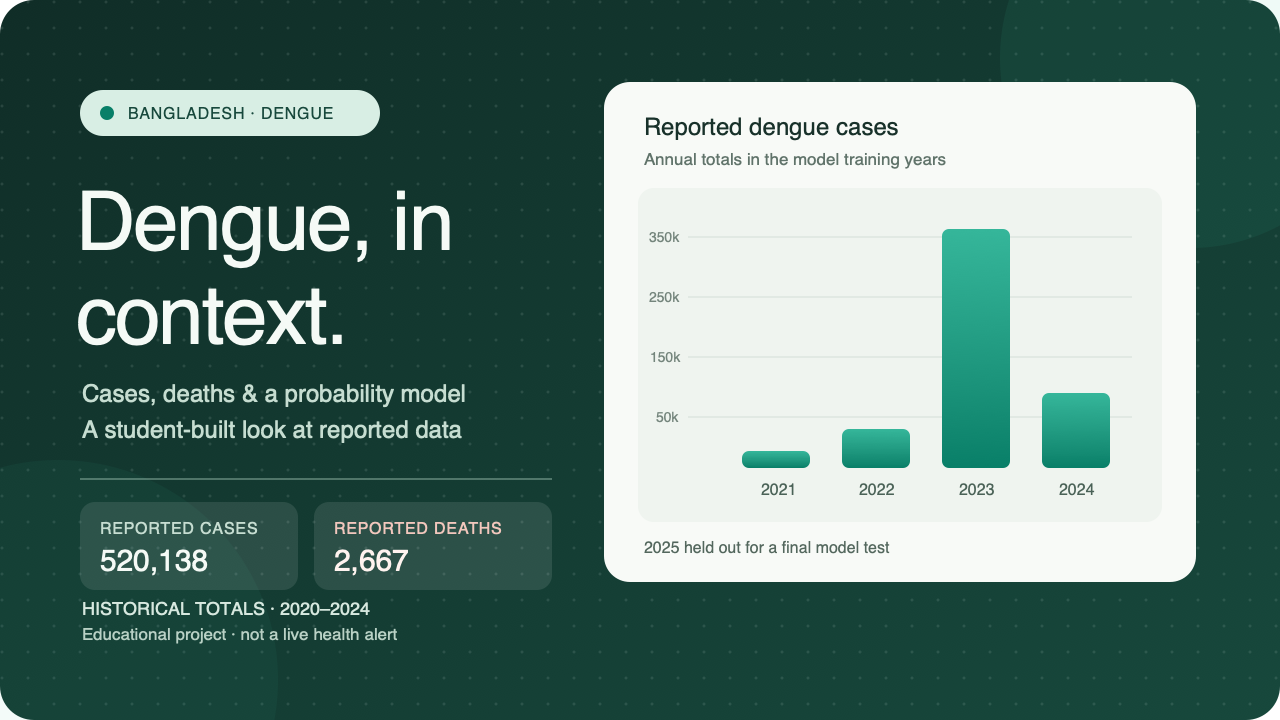
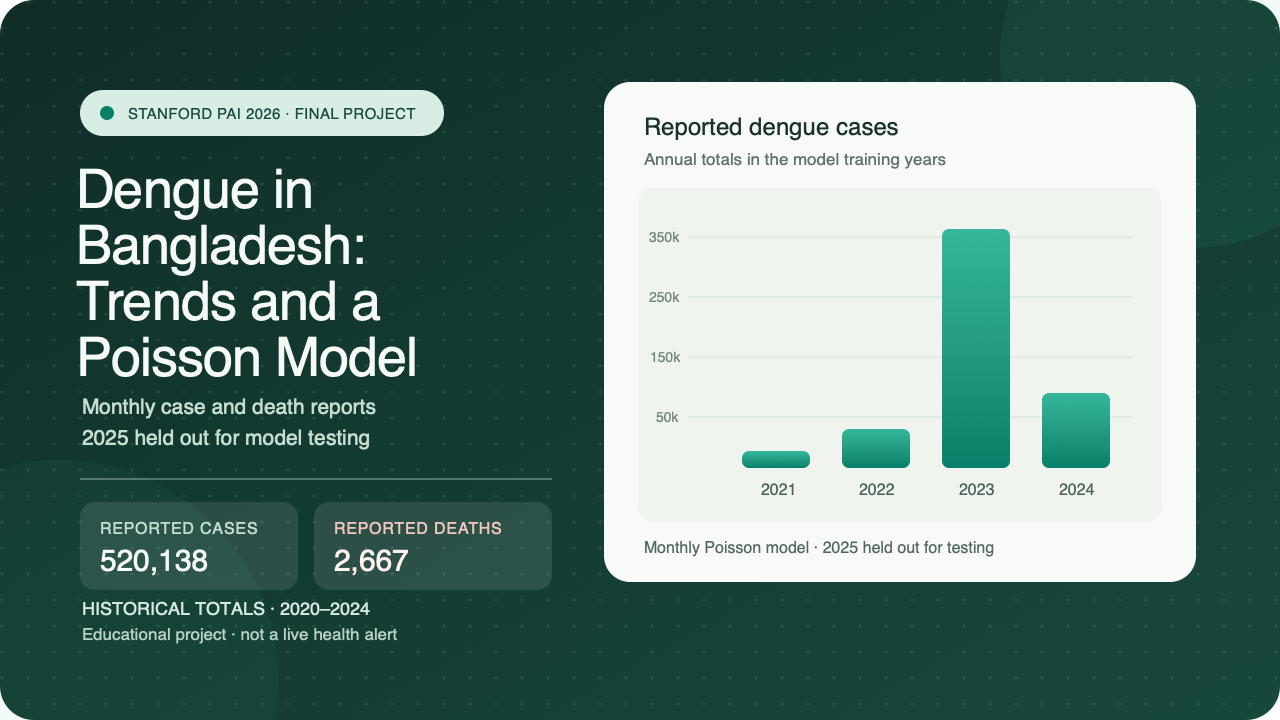
Update project branding and titles to reflect new submission: "Dengue in Bangladesh: Trends and a Poisson Model"

Changed region(s): [[0.0625, 0.2139, 0.375, 0.6417], [0.5, 0.7333, 0.7812, 0.7944], [0.0938, 0.1222, 0.3438, 0.2139]]

diff --git a/app/App.tsx b/app/App.tsx
@@ -113,7 +113,7 @@ export default function App() {
     <div style={{minHeight: '100vh', background: '#f4f6f1', color: '#18312a', fontFamily: 'system-ui, sans-serif', fontSize: 18}}>
       <header style={{background: '#102d27', color: '#f7fbf8', padding: '14px 22px'}}>
         <div style={{maxWidth: 1120, margin: '0 auto', display: 'flex', alignItems: 'center', justifyContent: 'space-between', gap: 18, flexWrap: 'wrap'}}>
-          <a href="#top" style={{color: 'inherit', fontWeight: 750, textDecoration: 'none'}}>Dengue, in context</a>
+          <a href="#top" style={{color: 'inherit', fontWeight: 750, textDecoration: 'none'}}>Dengue in Bangladesh</a>
           <nav aria-label="Main navigation" style={{display: 'flex', alignItems: 'center', gap: 20, flexWrap: 'wrap'}}>
             <a href="#trends" style={{color: 'inherit'}}>Historical trends</a>
             <a href="#model" style={{color: 'inherit'}}>How the model works</a>
@@ -133,12 +133,12 @@ export default function App() {
       <main id="top" style={{maxWidth: 1120, margin: '0 auto', padding: '28px 20px 56px'}}>
         <section aria-labelledby="page-title" style={{padding: '28px 4px 10px'}}>
           <p style={{fontWeight: 750, letterSpacing: 1.2, color: '#087f68', marginBottom: 10}}>BANGLADESH · PUBLIC HEALTH DATA EXPLORER</p>
-          <h1 id="page-title" style={{fontSize: 'clamp(34px, 6vw, 56px)', lineHeight: 1.08, maxWidth: 850, margin: '0 0 18px'}}>
-            What can dengue reports tell us—and what can’t they?
+          <h1 id="page-title" style={{fontSize: 'clamp(34px, 6vw, 56px)', lineHeight: 1.08, maxWidth: 950, margin: '0 0 18px'}}>
+            Dengue in Bangladesh: Trends and a Poisson Model
           </h1>
           <p style={{maxWidth: 800, lineHeight: 1.7}}>
-            Explore reported dengue cases and deaths in Bangladesh, then see how a simple probability model predicts
-            case counts for a year it did not learn from. This is a learning project, not a live alert service.
+            What can reported dengue cases and deaths tell us? Explore annual trends and test a monthly probability
+            model on a year it did not learn from. This is a learning project, not a live alert service.
           </p>
           <p style={{display: 'inline-block', background: '#e1eee8', color: '#174f40', padding: '10px 14px', borderRadius: 999, fontWeight: 700}}>
             Historical dataset · January 2020–December 2025

diff --git a/index.html b/index.html
@@ -5,7 +5,7 @@
     <meta name="viewport" content="width=device-width, initial-scale=1" />
     <meta name="theme-color" content="#102d27" />
     <meta name="description" content="An educational Bangladesh dengue data dashboard exploring reported cases, deaths, and a held-out probability-model test." />
-    <title>Dengue, in context | Bangladesh data explorer</title>
+    <title>Dengue in Bangladesh: Trends and a Poisson Model</title>
   </head>
   <body>
     <div id="root"></div>

diff --git a/AI-NOTES.md b/AI-NOTES.md
@@ -11,3 +11,5 @@
 - AI assistant using Copilot SDK in VS Code: Created an accessible, 1280 × 720 SVG thumbnail and matching PNG following the supplied sample's short title and safe-area guidance; included the dashboard's historical totals and held-out 2025 model test.
 - Student: Pointed out that the top data-explorer label extended past its pill border and asked for a precise safe-area check.
 - AI assistant using Copilot SDK in VS Code: Shortened and resized the top label pill, inset the right dashboard panel from the safe-area border, moved the footer line above the bottom safe-area edge, and regenerated the PNG.
+- Student: Selected the submission title “Dengue in Bangladesh: Trends and a Poisson Model” and noted that the old “Dengue, in context” branding did not match it.
+- AI assistant using Copilot SDK in VS Code: Replaced the old working title with the student's chosen title across the site, page metadata, README, and thumbnail; added Stanford PAI 2026 final-project context to the thumbnail.

diff --git a/README.md b/README.md
@@ -1,4 +1,4 @@
-# Dengue, in context
+# Dengue in Bangladesh: Trends and a Poisson Model
 
 An educational dashboard about reported dengue cases and deaths in Bangladesh.
 It explores annual historical counts, then evaluates a simple monthly Poisson
